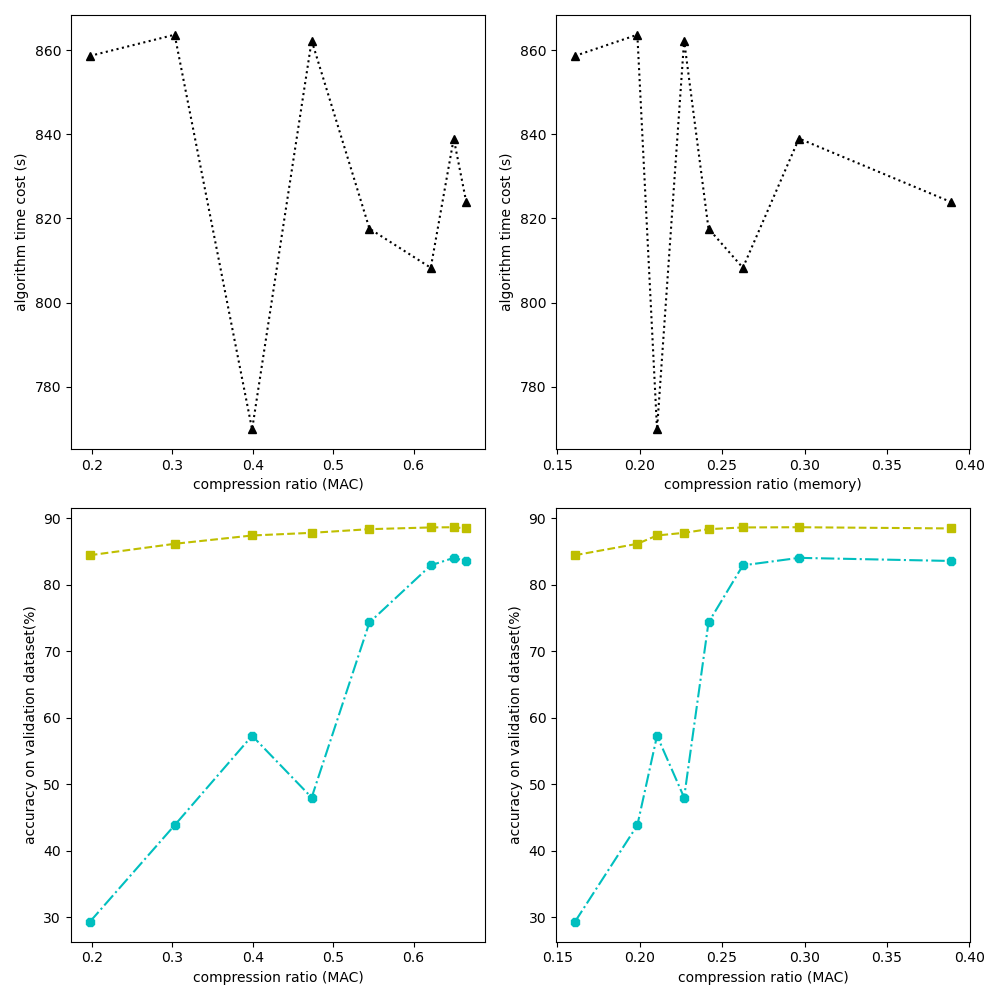
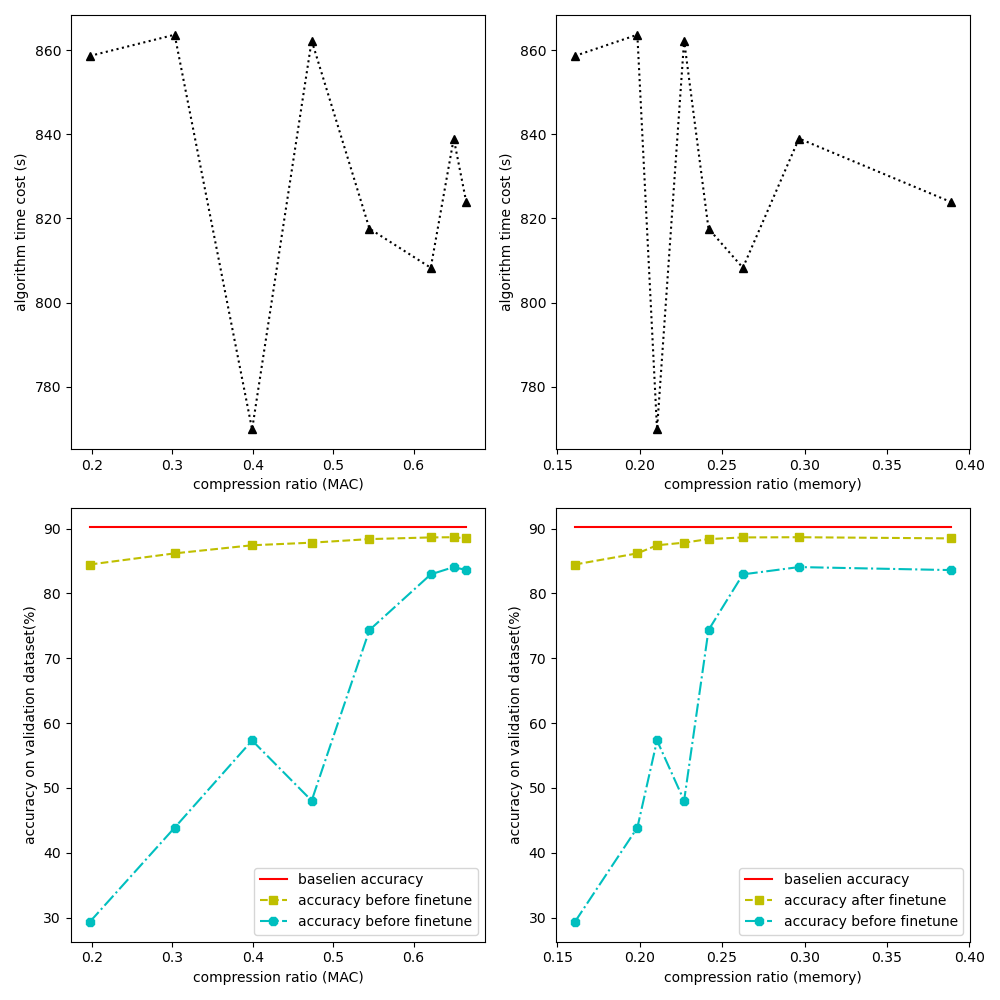
plot.py add legend

diff --git a/handleExperimentData/plot.py b/handleExperimentData/plot.py
@@ -1,3 +1,4 @@
+from cProfile import label
 import os
 import matplotlib.pyplot as plt
 import numpy as np
@@ -21,14 +22,18 @@ def channel_resnet18():
     axs[0, 1].plot( memoryRatioSorted, costTime[np.array(memoryRatioSortedIndex)], '^k:')
     axs[0, 1].set_xlabel('compression ratio (memory)')
     axs[0, 1].set_ylabel('algorithm time cost (s)')
-    axs[1, 0].plot( MACRatioSorted, accBeforeFinetune[np.array(MACRatioSortedIndex)] , '8-.c',MACRatioSorted, accAfterFinetune[np.array(MACRatioSortedIndex)] , 's--y' )
+    axs[1, 0].plot( MACRatioSorted, [90.2] * len(MACRatioSorted) , ',-r' , label='baselien accuracy')
+    axs[1, 0].plot( MACRatioSorted, accAfterFinetune[np.array(MACRatioSortedIndex)] , 's--y' , label='accuracy before finetune')
+    axs[1, 0].plot( MACRatioSorted, accBeforeFinetune[np.array(MACRatioSortedIndex)] , '8-.c', label='accuracy before finetune')
     axs[1, 0].set_xlabel('compression ratio (MAC)')
     axs[1, 0].set_ylabel('accuracy on validation dataset(%)')
-    axs[1, 1].plot( memoryRatioSorted, accBeforeFinetune[np.array(memoryRatioSortedIndex)] , '8-.c',memoryRatioSorted, accAfterFinetune[np.array(memoryRatioSortedIndex)] , 's--y' )
-    axs[1, 1].set_xlabel('compression ratio (MAC)')
+    axs[1, 0].legend()
+    axs[1, 1].plot( memoryRatioSorted, [90.2] * len(MACRatioSorted) , ',-r' , label='baselien accuracy')
+    axs[1, 1].plot(memoryRatioSorted, accAfterFinetune[np.array(memoryRatioSortedIndex)] , 's--y', label='accuracy after finetune')
+    axs[1, 1].plot( memoryRatioSorted, accBeforeFinetune[np.array(memoryRatioSortedIndex)] , '8-.c', label='accuracy before finetune')
+    axs[1, 1].set_xlabel('compression ratio (memory)')
     axs[1, 1].set_ylabel('accuracy on validation dataset(%)')
-
-
+    axs[1, 1].legend()
     fig.set(tight_layout = True)
     # fig.set(dpi = 600)
     plt.savefig(PLOTDIR + '/channel_resnet18.png')
